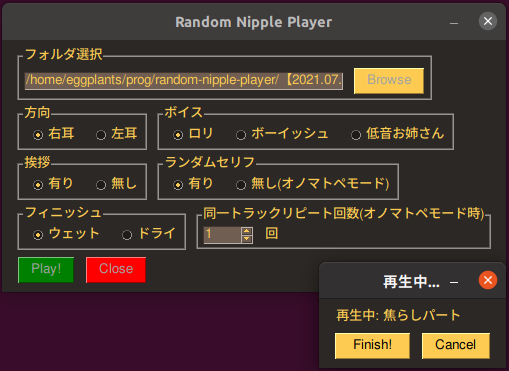
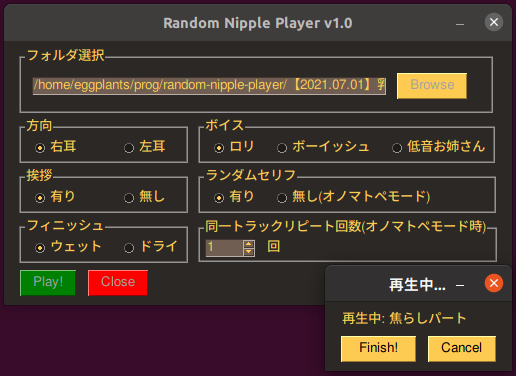
fix: randint range (v1.0)

diff --git a/randomnipple/RandomPlayer.py b/randomnipple/RandomPlayer.py
@@ -49,7 +49,7 @@ class RandomPlayer:
                 glob(path.join(self.dir, 'ループ音声', '*.wav')))[-4:]
             shuffle(serif_tracks)
             for s_track in serif_tracks:
-                for track in sample(loop_tracks, randint(1, 9)):
+                for track in sample(loop_tracks, randint(1, 8)):
                     self.play_track(track)
                 else:
                     self.play_track(s_track)

diff --git a/randomnipple/__init__.py b/randomnipple/__init__.py
@@ -1,1 +1,1 @@
-__version__ = '0.8'
+__version__ = '1.0'
